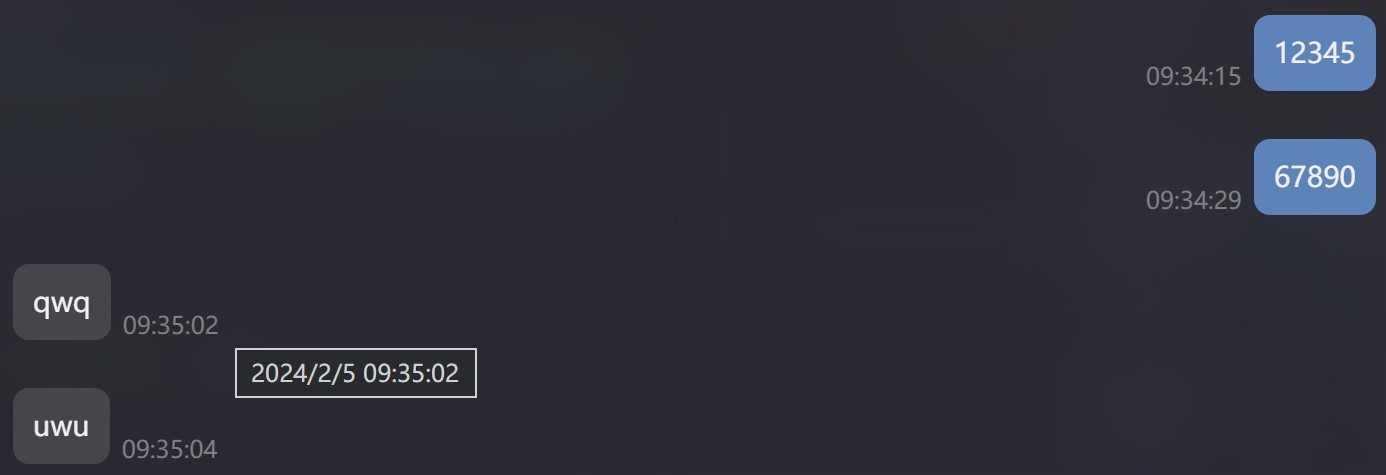
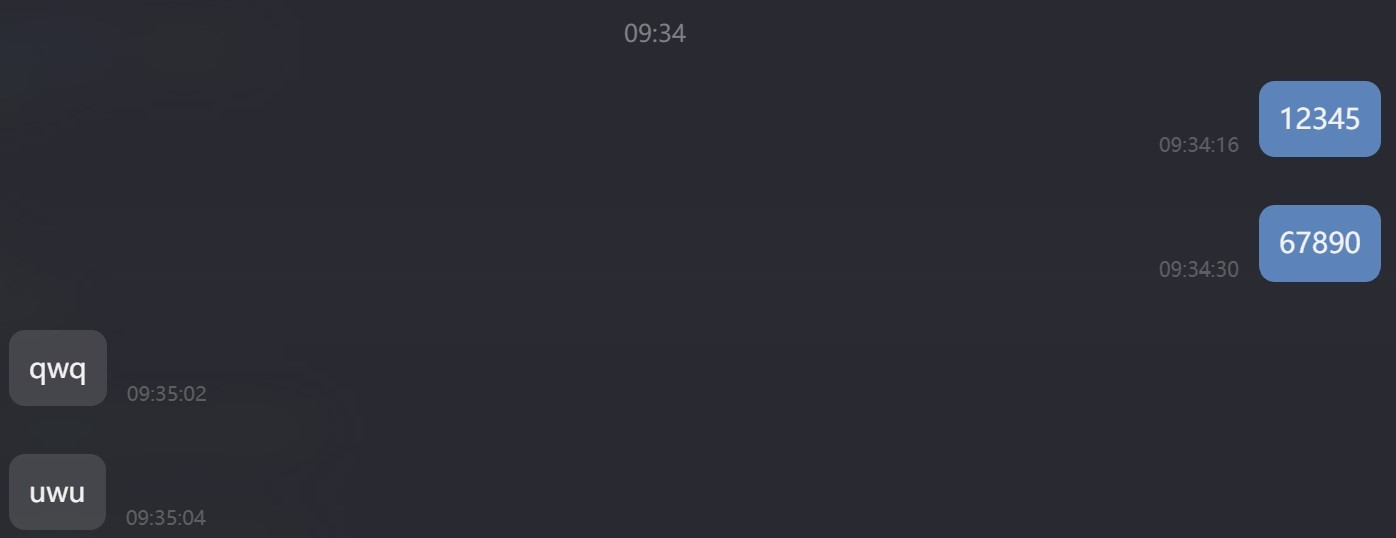
Smaller font size and opacity for `show-time`

diff --git a/show-time.js b/show-time.js
@@ -28,8 +28,9 @@
         .message .message-time {
             align-self: end;
             color: var(--on_bg_text);
-            font-size: var(--font_size_2);
-            margin: 0 0.5em;
+            opacity: 0.6;
+            font-size: var(--font_size_1);
+            margin: 0 1em;
         }
         .message .gray-tip-message .message-time::before {
             content: "(";
